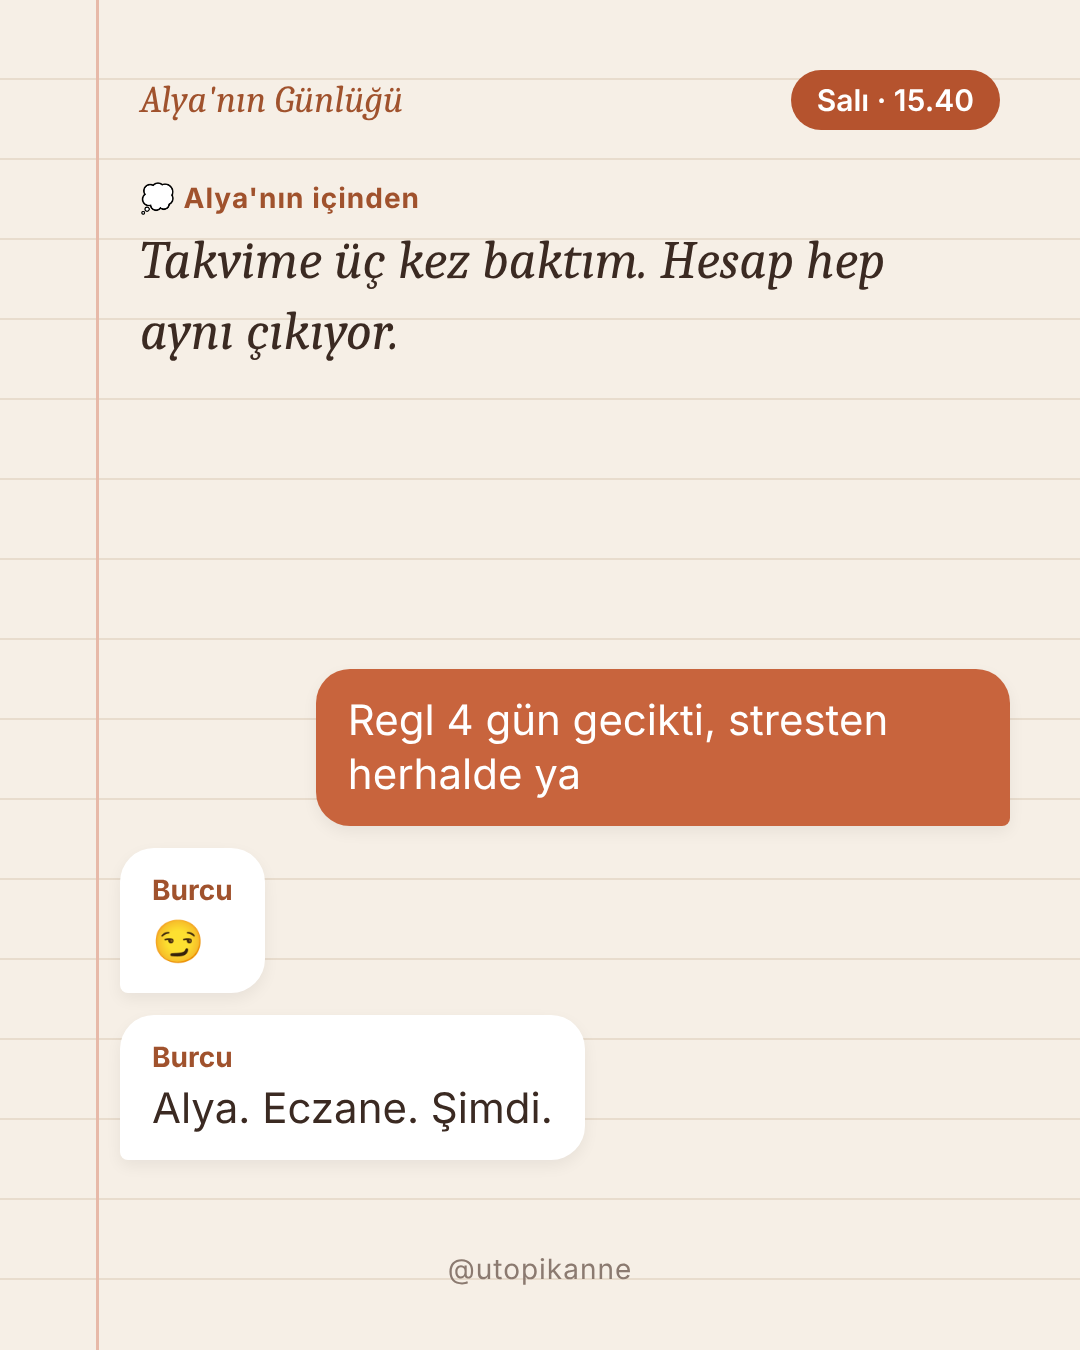
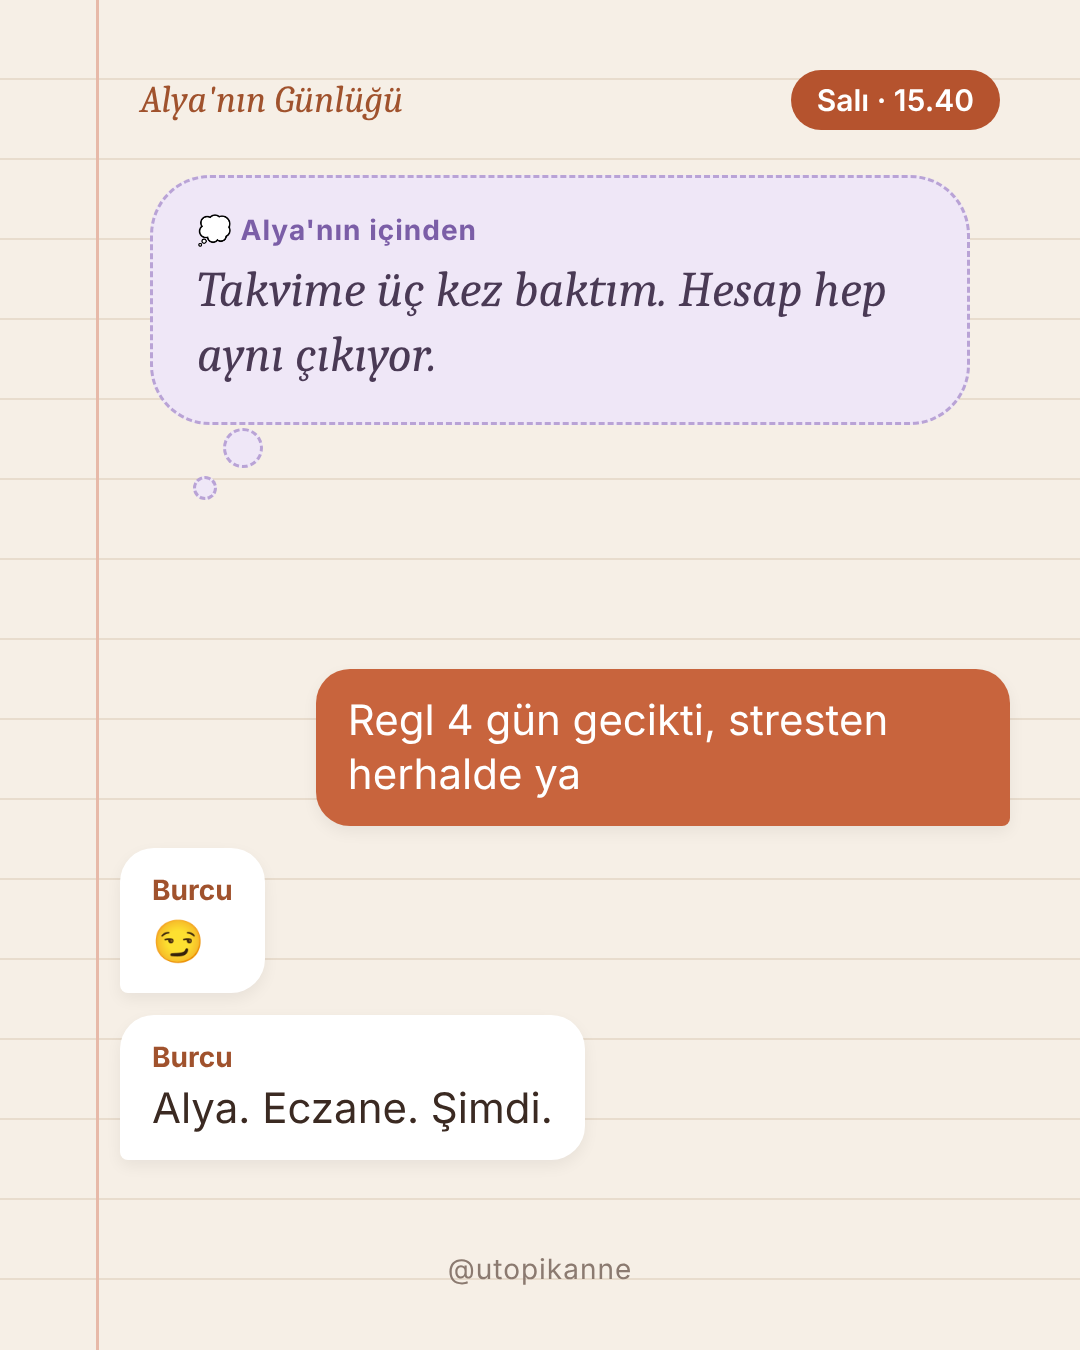
utopikanne: Alya iç ses düşünce balonu, kapak 'hamilelik hikâyesi'
Claude-Session: https://claude.ai/code/session_01QGX4XsF2fmNtuvzmoWMg9N

Changed region(s): [[0.1222, 0.1244, 0.825, 0.3111], [0.1833, 0.3111, 0.2444, 0.3733], [0.8556, 0.28, 0.8861, 0.3111]]

diff --git a/araclar/alya_sohbet.py b/araclar/alya_sohbet.py
@@ -14,8 +14,10 @@ body:before{content:"";position:absolute;left:96px;top:0;bottom:0;width:3px;back
 .ust{position:absolute;top:70px;left:140px;right:80px;display:flex;justify-content:space-between;align-items:center}
 .seri{font-family:"Caladea",serif;font-style:italic;font-size:38px;color:#A0522D}
 .zaman{font-size:30px;font-weight:600;color:#fff;background:#B5532E;padding:12px 26px;border-radius:40px}
-.gunluk{position:absolute;top:180px;left:140px;right:90px;font-family:"Caladea",serif;font-style:italic;font-size:54px;line-height:1.3;color:#3B2A22}
-.ic{font-family:"Inter",sans-serif;font-style:normal;font-size:28px;font-weight:700;letter-spacing:1px;color:#A0522D;margin-bottom:10px}
+.gunluk{position:absolute;top:175px;left:150px;right:110px;font-family:"Caladea",serif;font-style:italic;font-size:50px;line-height:1.3;color:#4A3A55;background:#EFE7F7;border:3px dashed #B9A3D6;border-radius:60px;padding:34px 44px}
+.gunluk:after{content:"";position:absolute;left:70px;bottom:-46px;width:34px;height:34px;border-radius:50%;background:#EFE7F7;border:3px dashed #B9A3D6}
+.gunluk:before{content:"";position:absolute;left:40px;bottom:-78px;width:18px;height:18px;border-radius:50%;background:#EFE7F7;border:3px dashed #B9A3D6}
+.ic{font-family:"Inter",sans-serif;font-style:normal;font-size:28px;font-weight:700;letter-spacing:1px;color:#7B5EA7;margin-bottom:10px}
 .sohbet{position:absolute;left:120px;right:70px;bottom:190px;display:flex;flex-direction:column;gap:22px}
 .m{max-width:78%;padding:24px 32px;border-radius:34px;font-size:42px;line-height:1.3;box-shadow:0 6px 16px #0000000f}
 .sol{align-self:flex-start;background:#fff;border-bottom-left-radius:8px}
@@ -34,7 +36,7 @@ body:before{content:"";position:absolute;left:96px;top:0;bottom:0;width:3px;back
 def sayfa(govde): return f'<!doctype html><html lang="tr"><head><meta charset="utf-8"><style>{CSS}</style></head><body>{govde}<div class="alt">@utopikanne</div></body></html>'
 pages = []
 k = d["kapak"]
-pages.append(sayfa(f'<div class="kapak"><div class="s">Alya\'nın Günlüğü</div><div class="t">{e(k.get("tur","🤰 Bir hamilelik dizisi"))}</div><div class="b">BÖLÜM {d["bolum"]}</div><h1>{e(k["baslik"])}</h1><div class="k">{e(k.get("alt","Kaydır →"))}</div></div>'))
+pages.append(sayfa(f'<div class="kapak"><div class="s">Alya\'nın Günlüğü</div><div class="t">{e(k.get("tur","🤰 Bir hamilelik hikâyesi"))}</div><div class="b">BÖLÜM {d["bolum"]}</div><h1>{e(k["baslik"])}</h1><div class="k">{e(k.get("alt","Kaydır →"))}</div></div>'))
 for s in d["sayfalar"]:
     g = f'<div class="ust"><div class="seri">Alya\'nın Günlüğü</div><div class="zaman">{e(s["zaman"])}</div></div>'
     if s.get("gunluk"): g += f'<div class="gunluk"><div class="ic">💭 Alya\'nın içinden</div>{e(s["gunluk"])}</div>'
